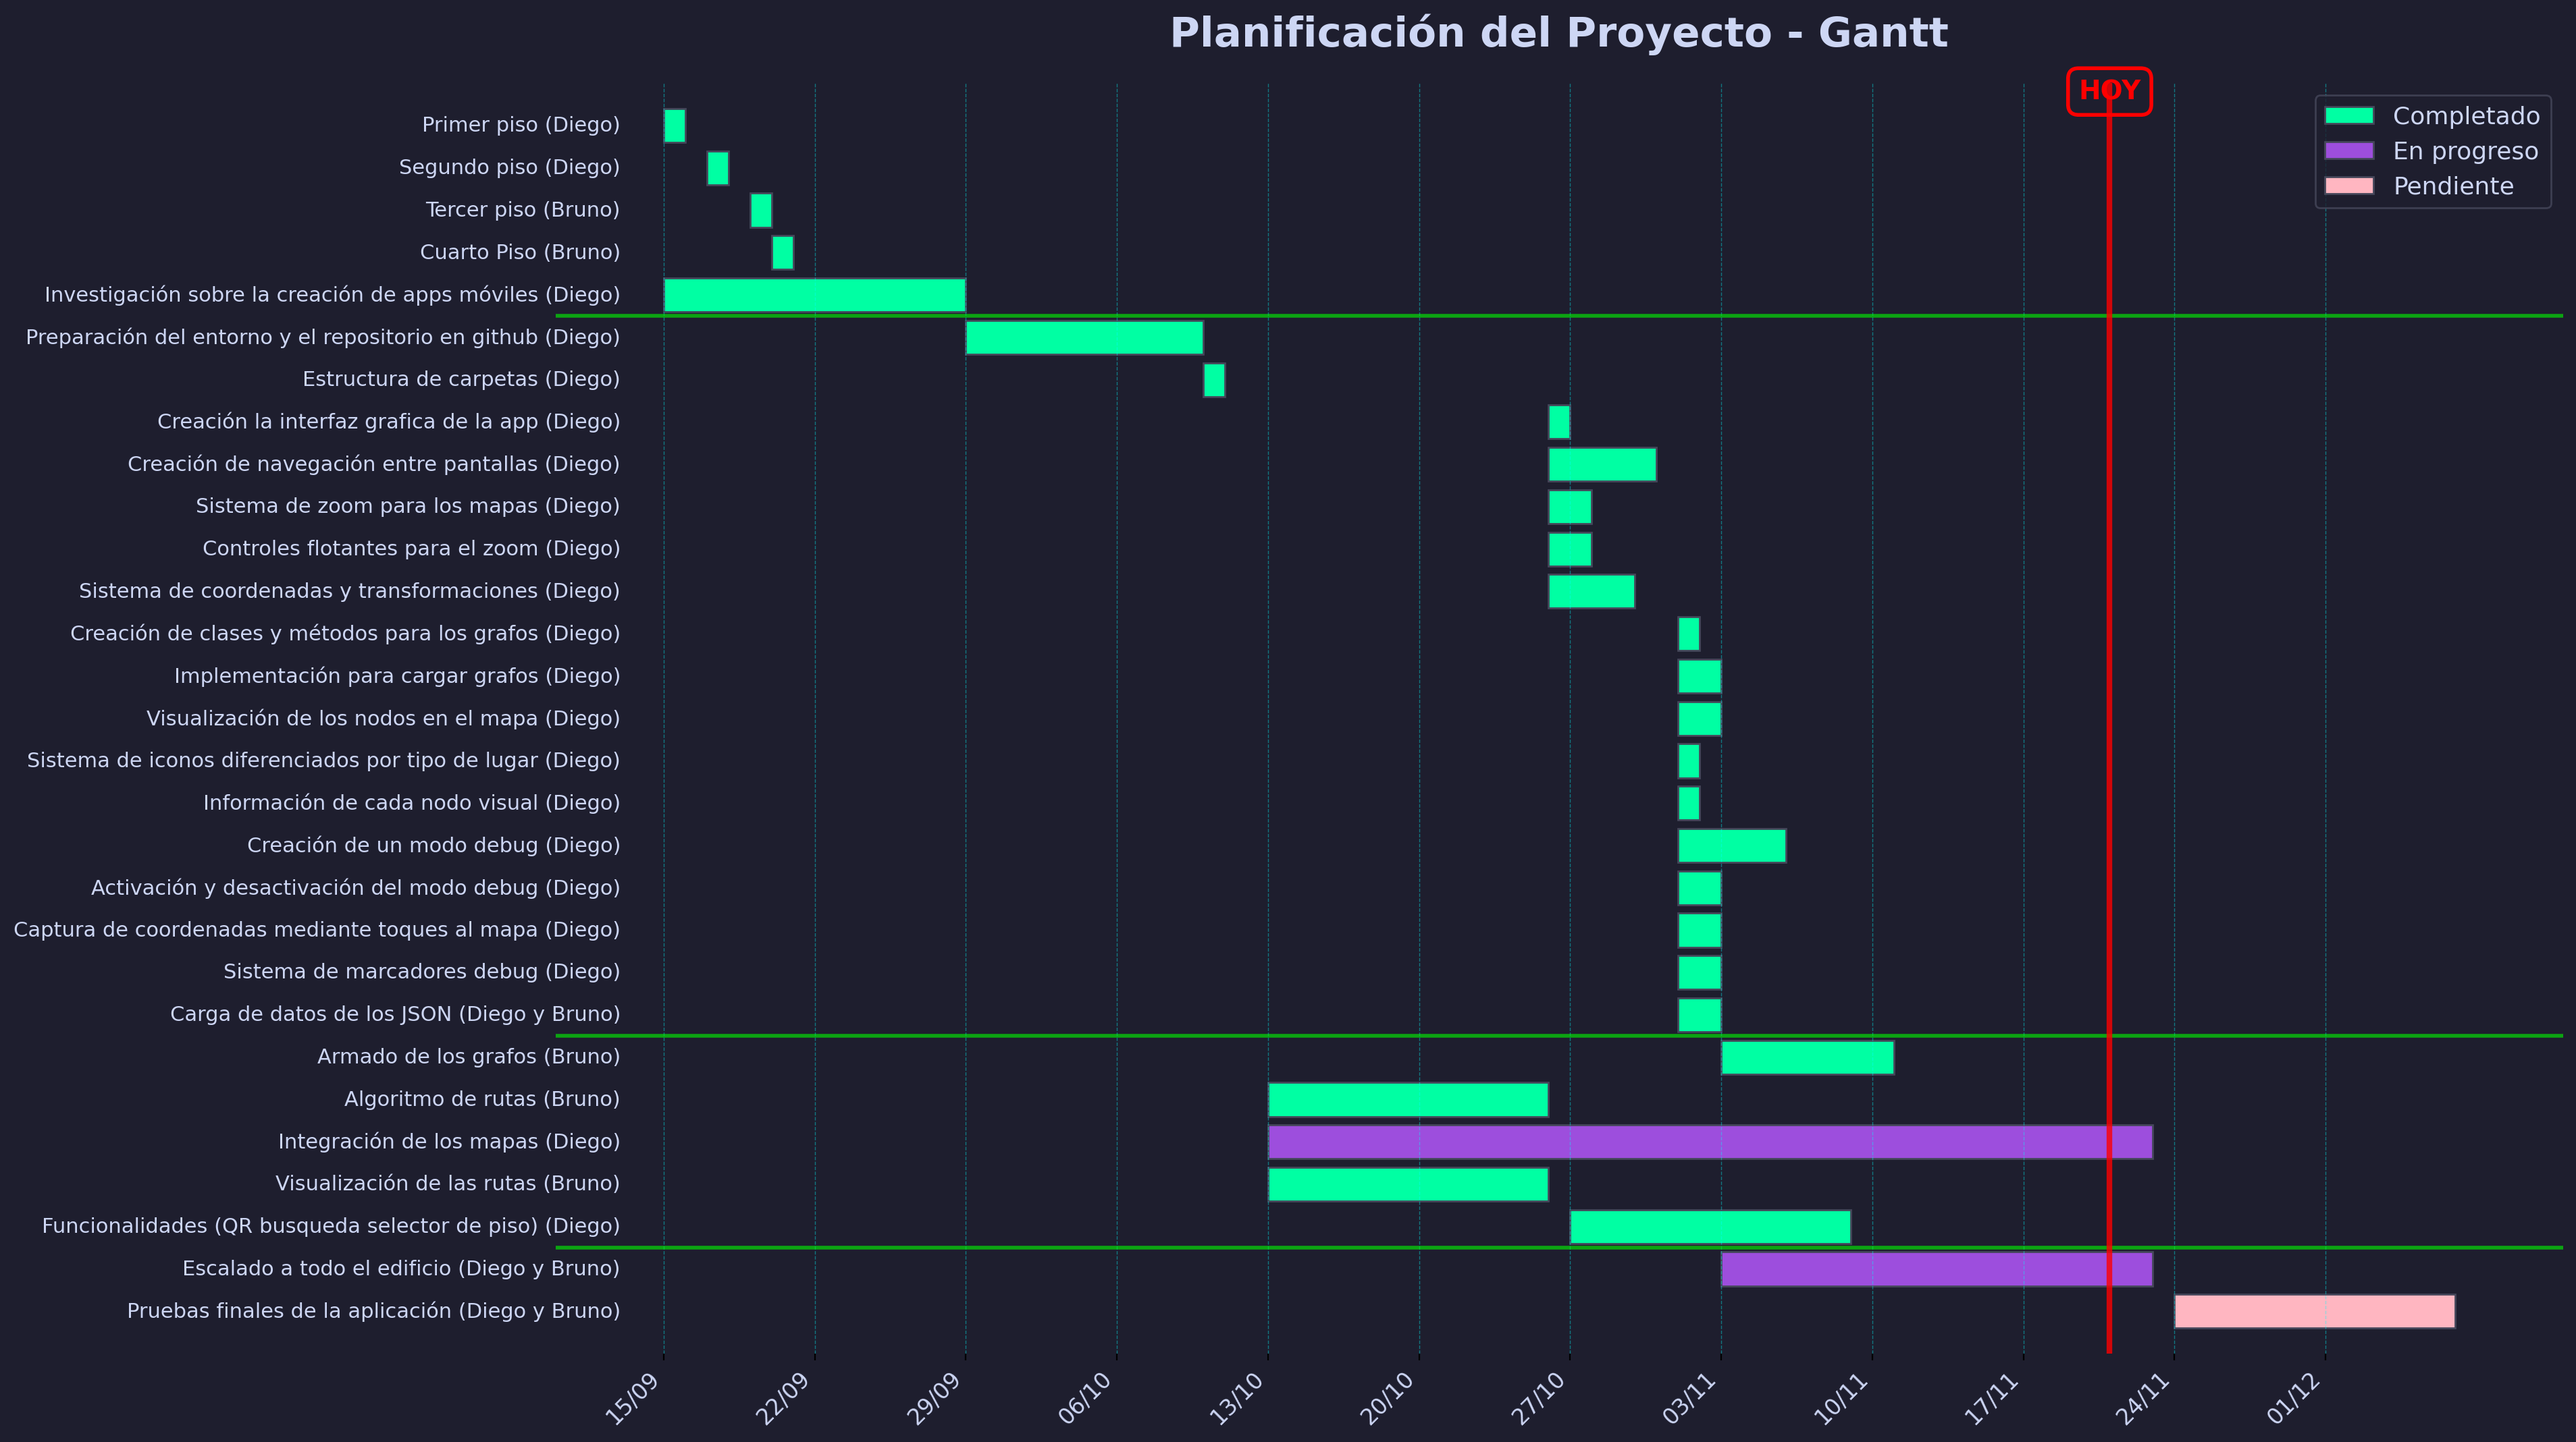
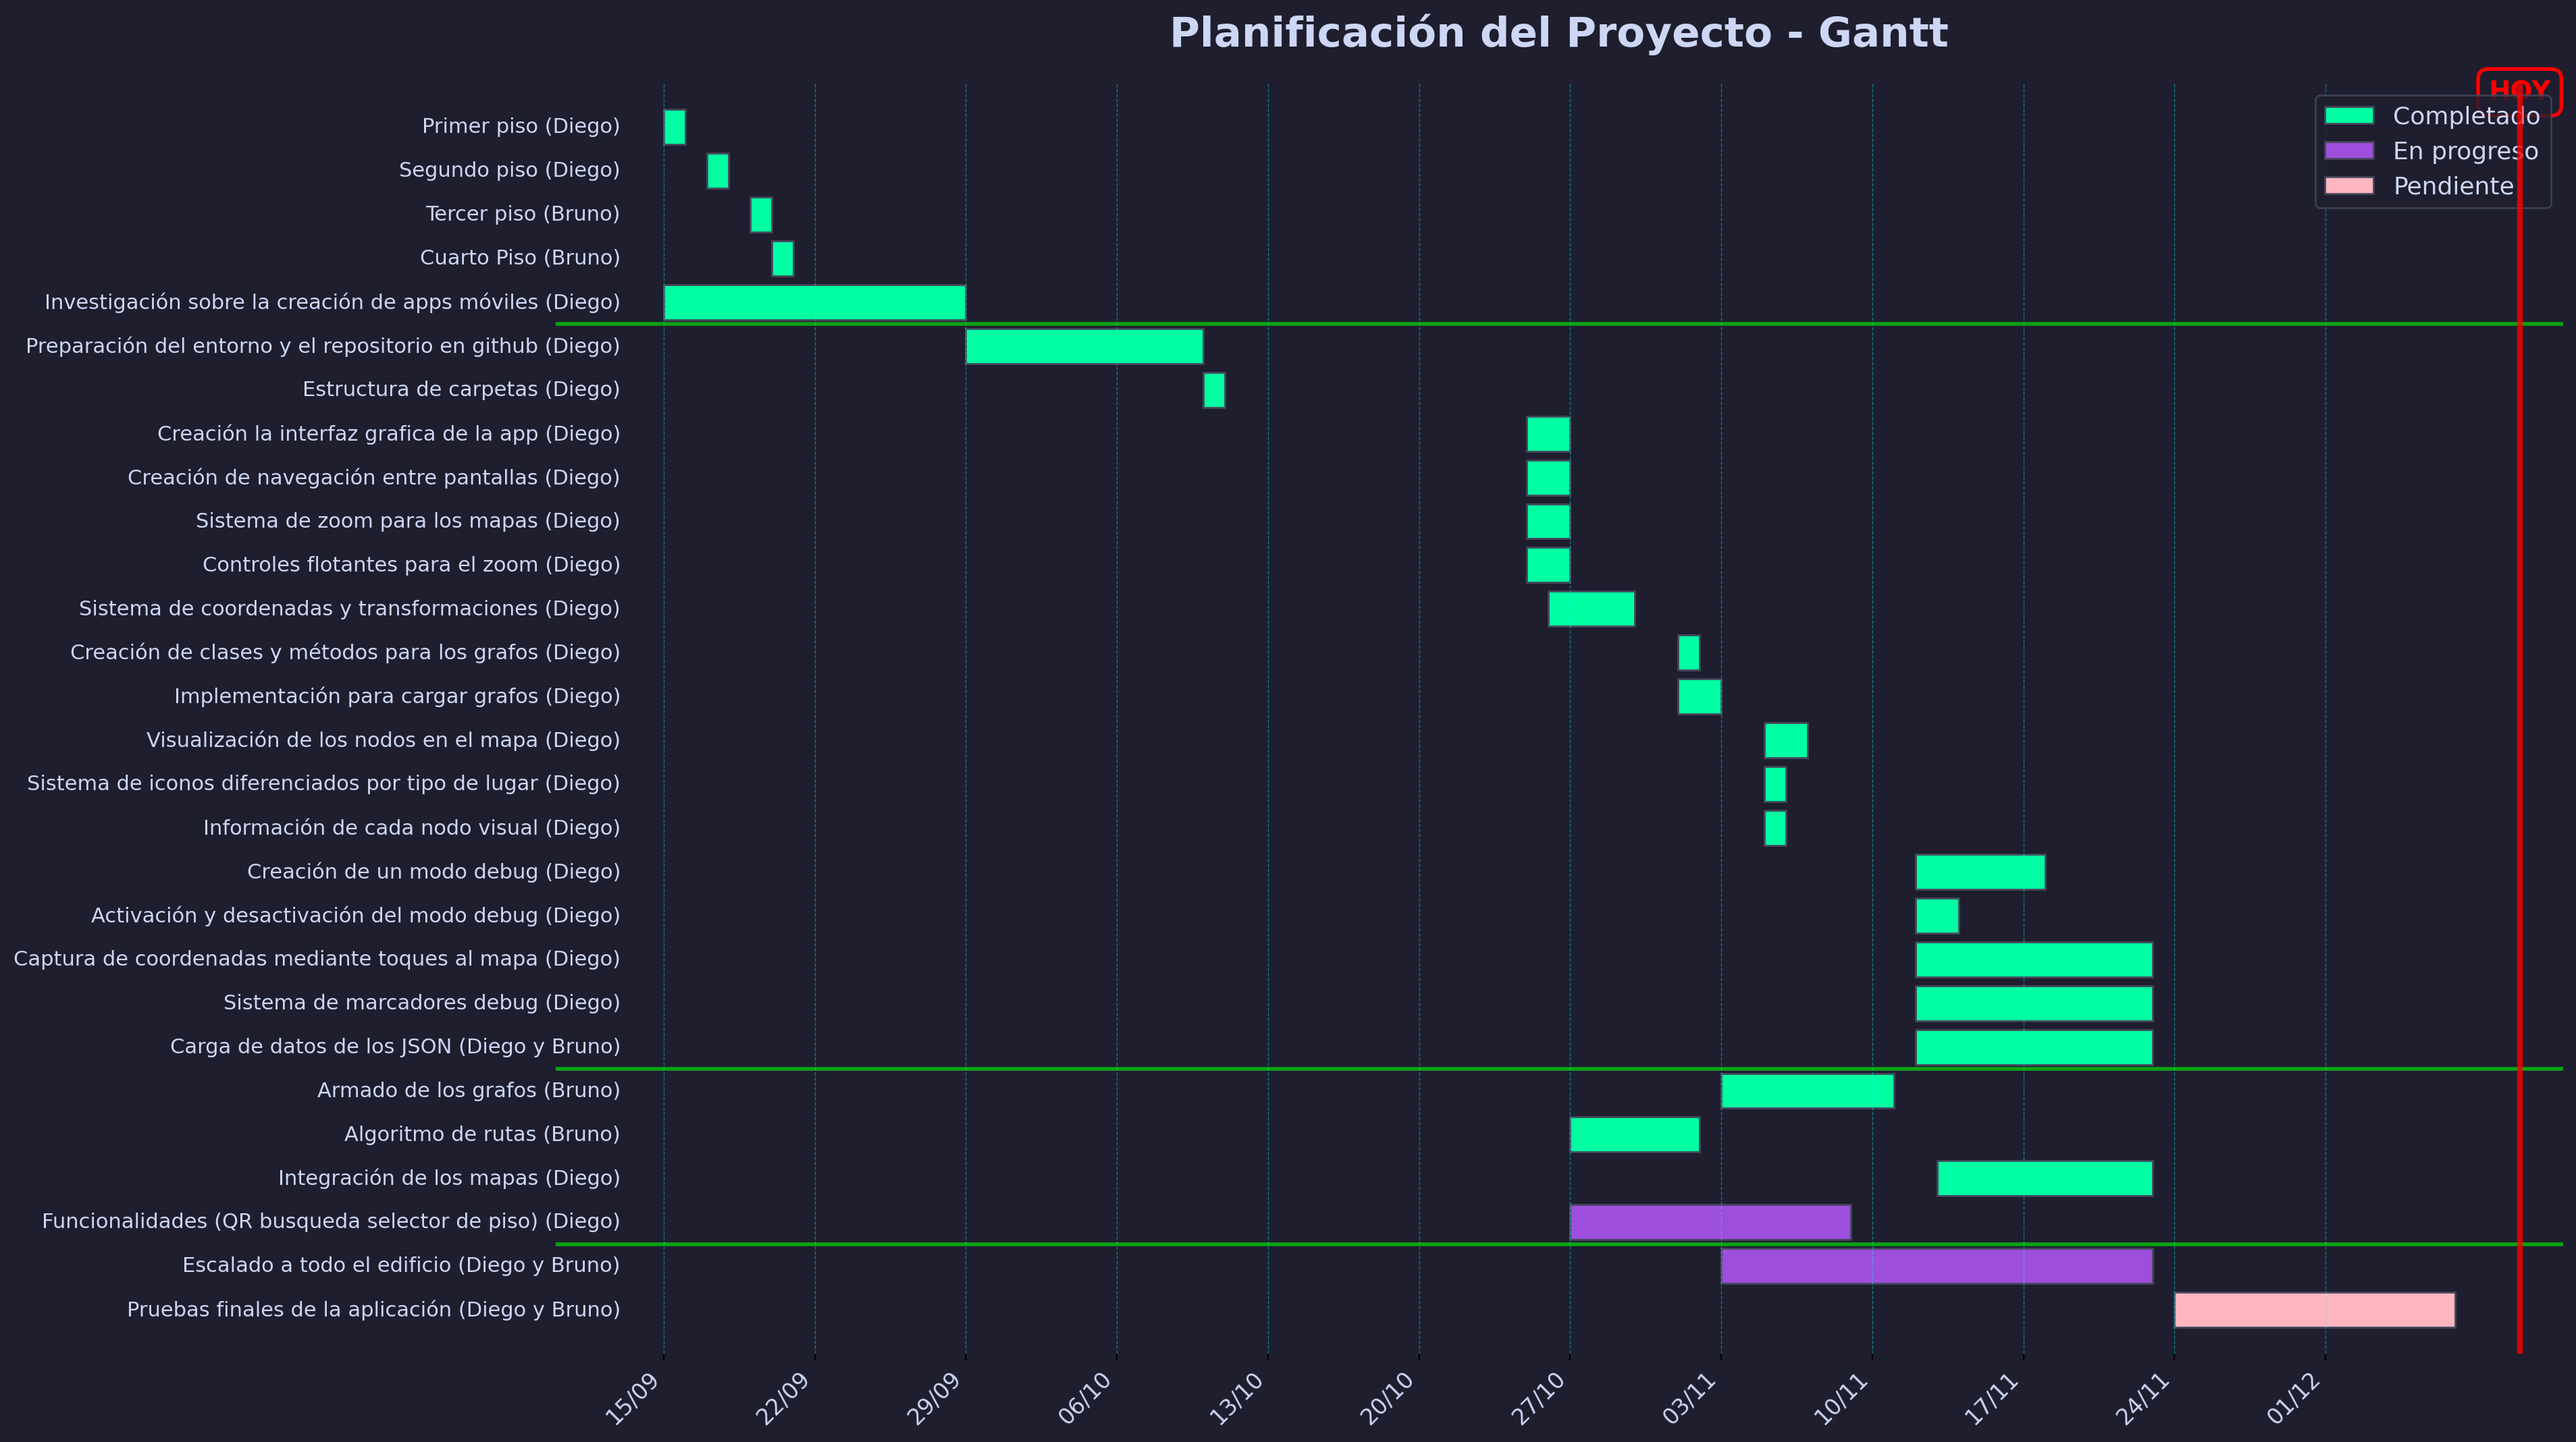
Se actualizo la carta gantt

diff --git a/gantt.md b/gantt.md
@@ -14,28 +14,28 @@ gantt
     section Desarrollo de la aplicación web
     Preparación del entorno y el repositorio en github (Diego) :done, dev0, 2025-09-29, 2025-10-10
     Estructura de carpetas (Diego)               :done, dev1, 2025-10-10, 1d
-    Creación la interfaz grafica de la app (Diego) :done, dev2, 2025-10-26, 1d
-    Creación de navegación entre pantallas (Diego):done, dev3, 2025-10-26, 5d
-    Sistema de zoom para los mapas (Diego)      :done, dev4, 2025-10-26, 2d
-    Controles flotantes para el zoom (Diego)    :done, dev5, 2025-10-26, 2d
+    Creación la interfaz grafica de la app (Diego) :done, dev2, 2025-10-25, 2d
+    Creación de navegación entre pantallas (Diego):done, dev3, 2025-10-25, 2d
+    Sistema de zoom para los mapas (Diego)      :done, dev4, 2025-10-25, 2d
+    Controles flotantes para el zoom (Diego)    :done, dev5, 2025-10-25, 2d
     Sistema de coordenadas y transformaciones (Diego):done, dev6, 2025-10-26, 4d
     Creación de clases y métodos para los grafos (Diego) :done, dev7, 2025-11-01, 1d
     Implementación para cargar grafos (Diego)    :done, dev8, 2025-11-01, 2d
-    Visualización de los nodos en el mapa (Diego):done, dev9, 2025-11-01, 2d
-    Sistema de iconos diferenciados por tipo de lugar (Diego) :done, dev10, 2025-11-01, 1d
-    Información de cada nodo visual (Diego)              :done, dev11, 2025-11-01, 1d
-    Creación de un modo debug (Diego)                    :done, dev12, 2025-11-01, 5d
-    Activación y desactivación del modo debug (Diego)    :done, dev13, 2025-11-01, 2d
-    Captura de coordenadas mediante toques al mapa (Diego) :done, dev14, 2025-11-01, 2d
-    Sistema de marcadores debug (Diego)                  :done, dev15, 2025-11-01, 2d
-    Carga de datos de los JSON (Diego y Bruno)                   :done, dev16, 2025-11-01, 2d
+    Visualización de los nodos en el mapa (Diego):done, dev9, 2025-11-05, 2d
+    Sistema de iconos diferenciados por tipo de lugar (Diego) :done, dev10, 2025-11-05, 1d
+    Información de cada nodo visual (Diego)              :done, dev11, 2025-11-05, 1d
+    Creación de un modo debug (Diego)                    :done, dev12, 2025-11-12, 6d
+    Activación y desactivación del modo debug (Diego)    :done, dev13, 2025-11-12, 2d
+    Captura de coordenadas mediante toques al mapa (Diego) :done, dev14, 2025-11-12, 11d
+    Sistema de marcadores debug (Diego)                  :done, dev15, 2025-11-12, 11d
+    Carga de datos de los JSON (Diego y Bruno)                   :done, dev16, 2025-11-12, 11d
 
     section Mapas y rutas
     Armado de los grafos (Bruno)                 :done, dev17, 2025-11-03, 2025-11-11
-    Algoritmo de rutas (Bruno)                   :done, dev18, 2025-10-13, 2025-10-26
-    Integración de los mapas (Diego)             :active, dev19, 2025-10-13, 2025-11-23
-    Visualización de las rutas (Bruno)           :done, dev20, 2025-10-13, 2025-10-26
-    Funcionalidades (QR busqueda selector de piso) (Diego) :done, dev21, 2025-10-27, 2025-11-09
+    Algoritmo de rutas (Bruno)                   :done, dev18, 2025-10-27, 6d
+    Integración de los mapas (Diego)             :done, dev19, 2025-11-13, 2025-11-23
+    Visualización de las rutas (Diego)           :active, dev20, 2025-12-4, 2025-12-10
+    Funcionalidades (QR busqueda selector de piso) (Diego) :active, dev21, 2025-10-27, 2025-11-09
 
     section Integración final
     Escalado a todo el edificio (Diego y Bruno)  :active, dev22, 2025-11-03, 2025-11-23
